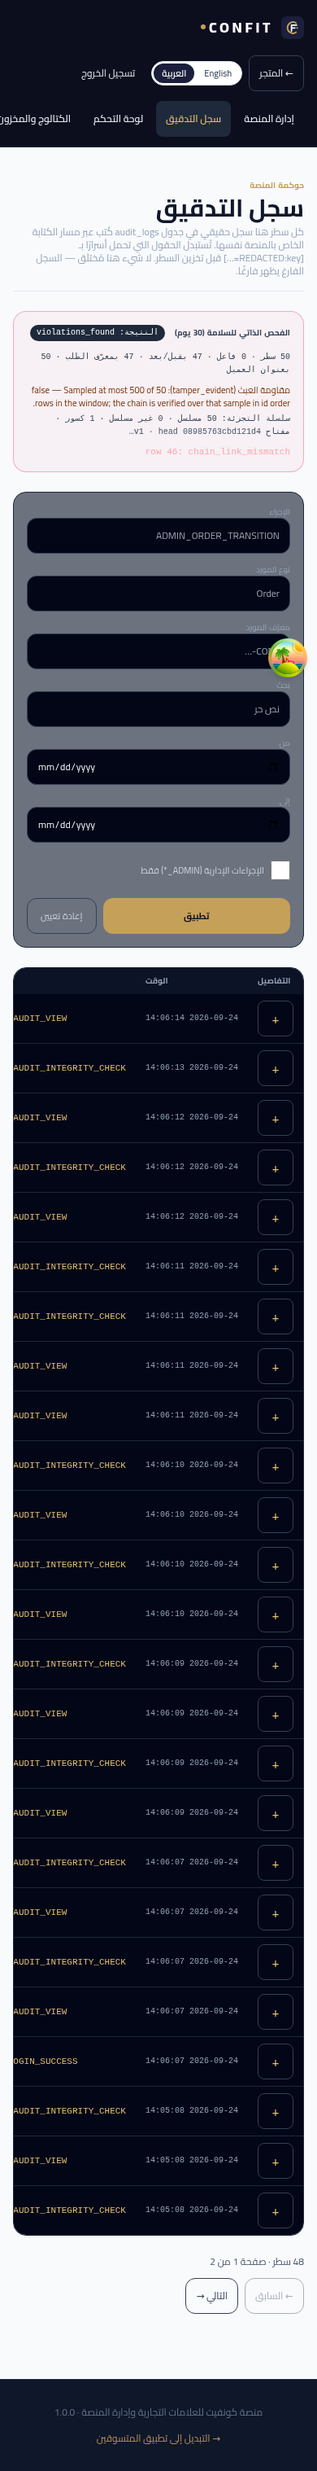
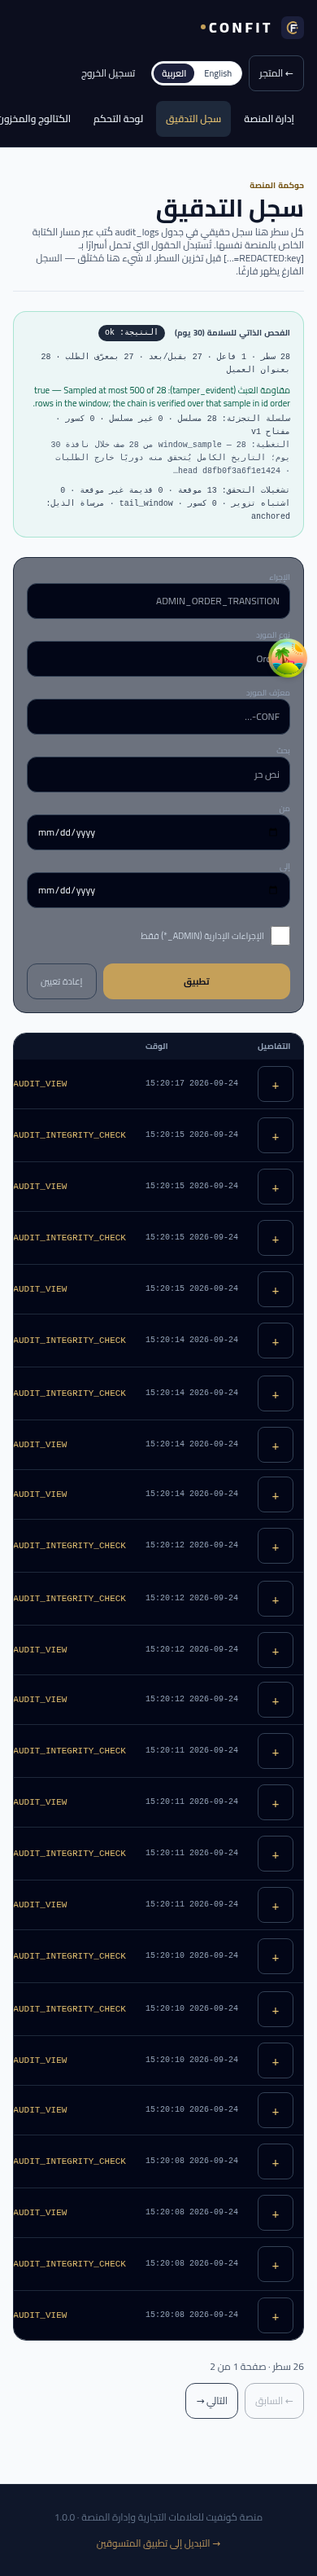
test(admin-a11y): measure contrast, desktop, Space and focus

diff --git a/frontend/src/views/b2b/AdminAuditView.tsx b/frontend/src/views/b2b/AdminAuditView.tsx
@@ -142,11 +142,11 @@ export const AdminAuditView: React.FC = () => {
   return (
     <div className="space-y-6 pb-20 text-slate-900">
       <header className="border-b border-slate-200 pb-4">
-        <span className="text-[10px] font-bold uppercase tracking-widest text-[#C5A059]">
+        <span className="text-[10px] font-bold uppercase tracking-widest text-[#765515]">
           {t('admin_audit.eyebrow')}
         </span>
         <h1 className="font-serif text-3xl font-bold">{t('admin_audit.title')}</h1>
-        <p className="mt-1 text-xs text-slate-400">{t('admin_audit.lede')}</p>
+        <p className="mt-1 text-xs text-slate-600">{t('admin_audit.lede')}</p>
       </header>
 
       {integrity && (
@@ -155,10 +155,11 @@ export const AdminAuditView: React.FC = () => {
             integrity.verdict === 'ok'
               ? 'border-emerald-500/30 bg-emerald-500/5'
               : integrity.verdict === 'no_data'
-                ? 'border-slate-700 bg-slate-900/60'
+                ? 'border-slate-300 bg-slate-100'
                 : 'border-rose-500/40 bg-rose-500/5'
           }`}
           aria-label={t('admin_audit.integrity_aria')}
+          data-testid="audit-integrity"
         >
           <div className="flex flex-wrap items-center gap-3">
             <span className="text-[10px] font-bold uppercase tracking-widest text-slate-700">
@@ -206,7 +207,7 @@ export const AdminAuditView: React.FC = () => {
                 </span>
               )}
               {(integrity.chain.bypass_suspected_rows ?? 0) > 0 && (
-                <span role="alert" className="block font-semibold text-rose-300">
+                <span role="alert" className="block font-semibold text-rose-800">
                   {t('admin_audit.integrity_bypass', {
                     count: integrity.chain.bypass_suspected_rows,
                   })}

diff --git a/frontend/src/views/__tests__/AdminAuditView.accessibility.test.tsx b/frontend/src/views/__tests__/AdminAuditView.accessibility.test.tsx
@@ -60,6 +60,13 @@ const INTEGRITY = {
     breaks: [], head_hash: 'a'.repeat(64), key_version: 1,
     canonical_version: 1,
   },
+  verification_runs: {
+    coverage_mode: 'tail_window', sample_limit: 100, sampled_rows: 2,
+    signed_rows: 2, unsigned_rows: 0, first_signed_run_id: 1,
+    forgery_suspected_rows: 0, breaks: [], intact: true,
+    head_hash: 'b'.repeat(64), canonical_version: 1,
+    anchor: { audit_row_id: 88, run_id: 2, verdict: 'anchored' },
+  },
   limitations: ['Window sample only.'],
 };
 
@@ -77,6 +84,7 @@ describe('AdminAuditView accessible interaction', () => {
     expect(button.tagName).toBe('BUTTON');
     expect(button.getAttribute('aria-expanded')).toBe('false');
     expect(button.className).toContain('min-h-11');
+    expect(await screen.findByText(/verification runs: 2 signed.*tail anchor: anchored/i)).toBeTruthy();
     expect(button.className).toContain('focus-visible:ring-2');
     expect(container.querySelector('tr[aria-expanded]')).toBeNull();
 

diff --git a/docs/ADMIN_GOVERNANCE_REAUDIT_2026-09-24.md b/docs/ADMIN_GOVERNANCE_REAUDIT_2026-09-24.md
@@ -40,7 +40,7 @@ correlation as causal, or an operational amount as a settled ledger amount.
 5. Money remains partitioned by currency; no implicit FX or `$` label.
 6. Return numerator/denominator use one unit and one cohort assignment.
 7. Authenticated authorization denials and sensitive audit reads are audited.
-8. Admin governance remains usable at 390/414/768/1024 widths and by keyboard;
+8. Admin governance remains usable at 390/414/768/1024/1440 widths and by keyboard;
    automated semantics do not substitute for a manual AT/contrast evaluation.
 
 ### Non-goals
@@ -163,7 +163,7 @@ next check. This still does not close actor I (DB + HMAC keys).
 | Mixed currencies are never summed | repository currency partition | production payload after deployment pending | mixed/single-currency DB tests | CONFIRMED locally |
 | Return cohorts use matching boundaries | repository distinct-order query | production values not independently recomputed | duplicate/rejected/window tests | CONFIRMED locally |
 | External WORM anchoring exists | none | none | none | REQUIRES INFRASTRUCTURE |
-| 390px navigation keeps all actions | navbar + native detail button | local Chromium 153 at 390/414/768/1024: no page overflow; 7 links; governance links initially visible; own table scroller; keyboard Enter expanded | structural/axe tests + `docs/evidence/admin-governance-browser-report.json` | CONFIRMED locally; production authenticated UI UNVERIFIED |
+| Responsive/keyboard audit access | navbar + native detail button | local Chromium 153 + PostgreSQL 17 at 390/414/768/1024/1440: no page overflow; 7 links; governance links initially visible; intentional table scroller where needed; computed integrity-text contrast minimum 6.92:1; named 44px control; Enter/Space and focus retention; RTL 390 | structural/axe tests + `docs/evidence/admin-governance-browser-report.json` | CONFIRMED locally; not a formal WCAG conformance claim; production authenticated UI UNVERIFIED |
 | WCAG 2.2 conformance | no conformance evaluation | none | axe excludes contrast/target-size in jsdom | UNVERIFIED — no compliance claim |
 
 Allowed status vocabulary is intentional: CONFIRMED, PARTIALLY CONFIRMED,
